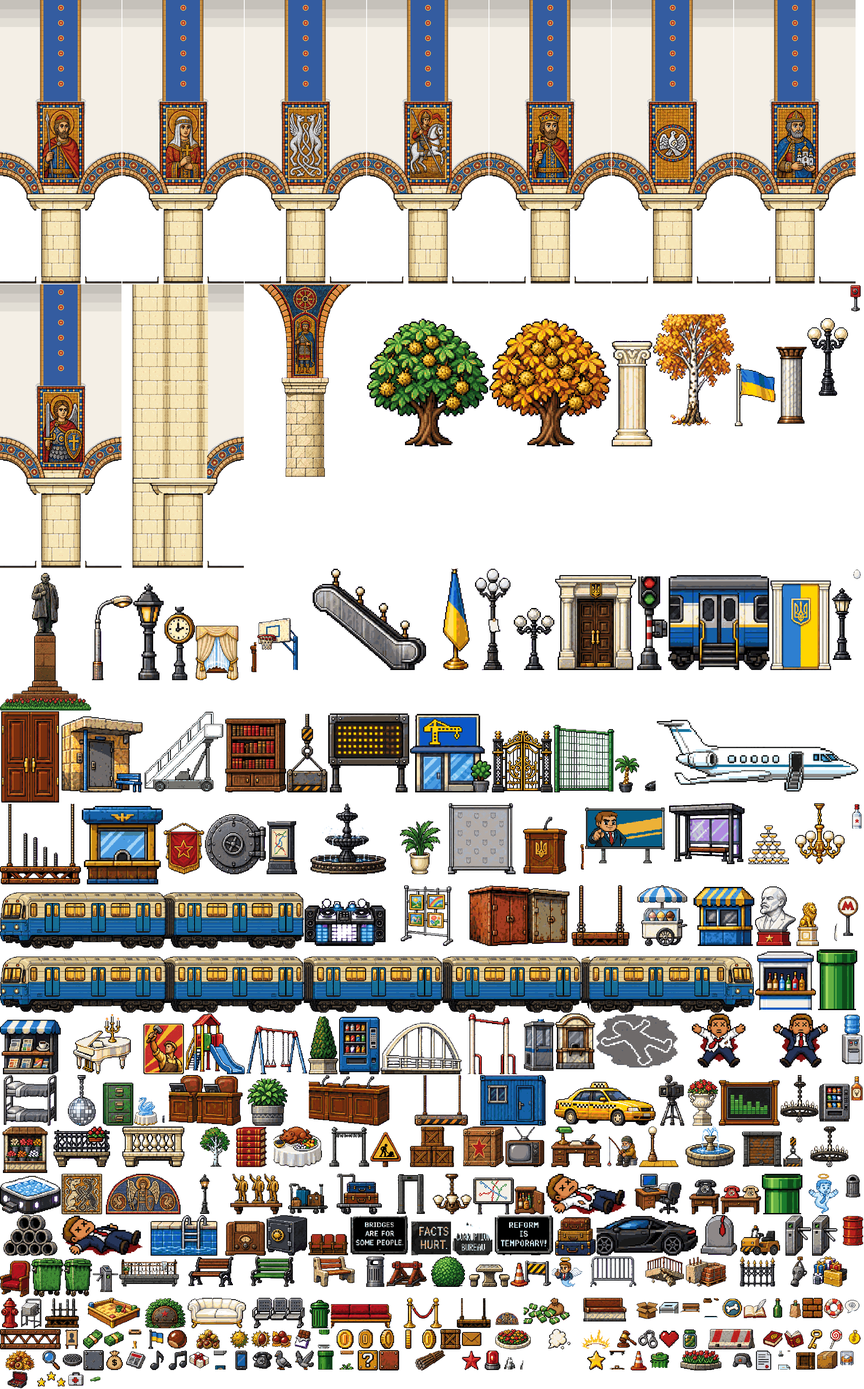
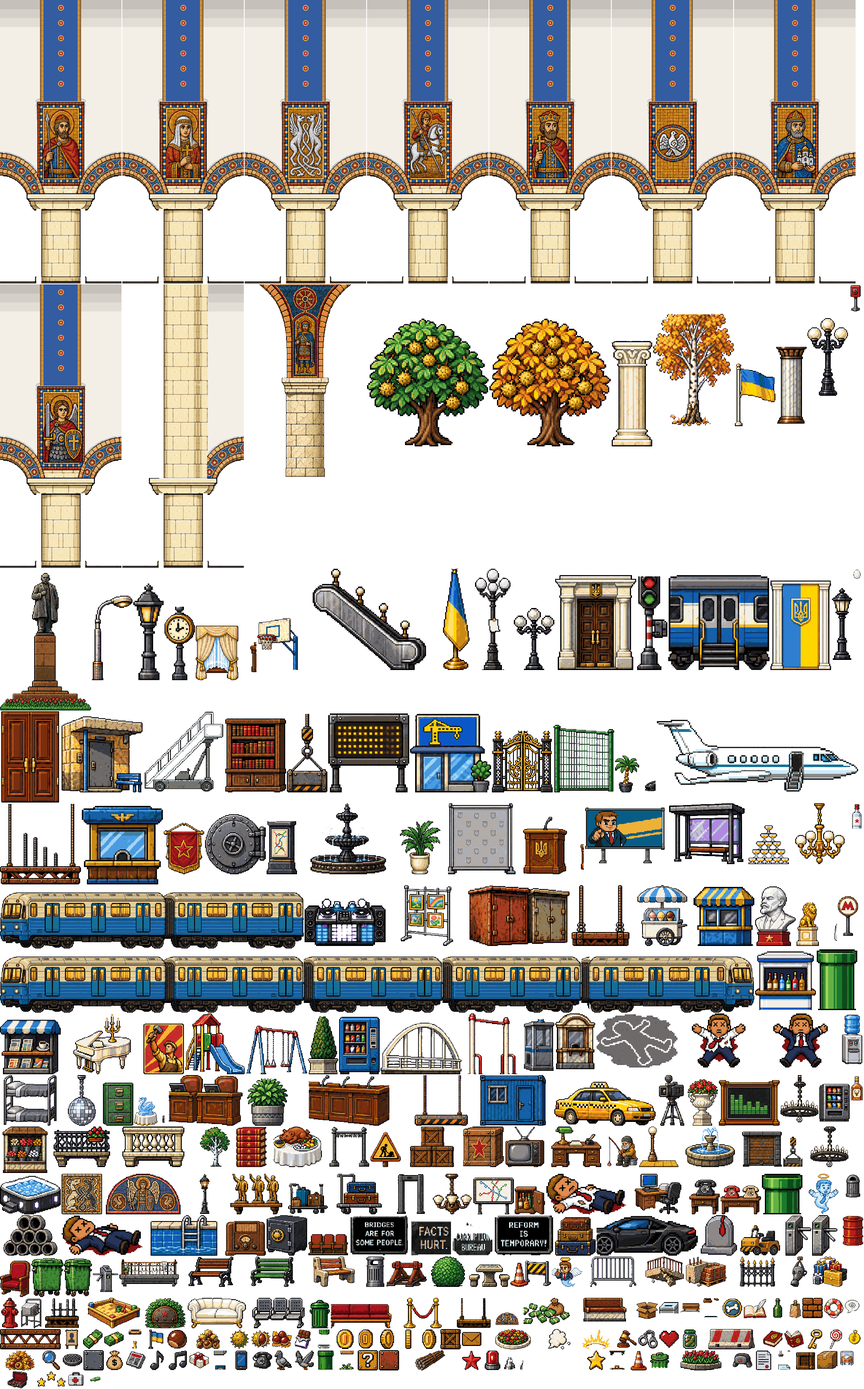
Metro end pier: slimmer, masonry rises from the shaft; the capital keeps its own overhang and bracket

Changed region(s): [[0.1562, 0.1859, 0.25, 0.4338]]

diff --git a/tools/make_metro_arcade.py b/tools/make_metro_arcade.py
@@ -33,7 +33,6 @@ BAY_W = 288            # 6 tiles
 FULL_H = 672           # floor (row 14) to the top of the level
 CHANDELIER_ROW_BOTTOM = 11 * 48   # the chandelier's bottom in world px (decor row 10)
 PANEL_SCALE = 1.0     # full-size mosaics, in one piece with their ornament frame
-END_WALL_X = 24       # the end wall of zv_bay_end starts here (px from the bay's left edge)
 SHAFT_SCALE = 0.8     # pillar shafts a little narrower than generated (the capitals keep their width)
 
 
@@ -193,13 +192,13 @@ def cut_course(b):
 
 
 def make_end(bay, pl, pr):
-    """The first pier of the hall: a stone end wall (the pillar's own masonry, floor to vault) with the
-    capital slab carried across it as a cornice; the right half-arch springs from it."""
+    """The first pier of the hall: the pillar rises as masonry above its capital up to the vault (no
+    mosaic, no left arch); the right half-arch springs from the capital."""
     b = bay.copy()
     h, w = b.shape[:2]
     c = w // 2
-    xw = END_WALL_X
     al = b[..., 3] > 0
+    xw = run_left(al, h - 40, c) + 1                        # the wall rises straight up from the shaft
     ls = [(y, run_left(al, y, c)) for y in range(h - 30, 0, -1)]
     ls = [(y, l) for y, l in ls if l > 0]
     # the slab: the longest run of rows with the same left edge above the shaft (the shaft is the first run)
@@ -239,7 +238,6 @@ def make_end(bay, pl, pr):
     for yy in range(yb - 22, yb):
         wall[yy, xw:pl + 2 + (yy - (yb - 22)) * 10 // 22] = True
     # below the slab: the see-through arch opening left of the shaft
-    wall[slab_bot + 1:, xw:c] |= ~al[slab_bot + 1:, xw:c]
 
     # the masonry: the pillar shaft's own stone courses, repeated across and upward
     sl = run_left(al, h - 40, c) + 1
@@ -257,17 +255,12 @@ def make_end(bay, pl, pr):
     sx = tx0 + (xs - xw) % tw
     b[ys, xs] = b[sy, sx]
     b[ys, xs, 3] = 255
-    # the slab runs across the wall as a cornice (its left end cap moves to the wall's edge)
-    for y in range(slab_top, slab_bot + 1):
-        seg = b[y, x0 + 6:x0 + 26].copy()
-        for x in range(xw + 3, x0 + 6):
-            b[y, x] = seg[(x - xw - 3) % len(seg)]
-        b[y, xw:xw + 3] = bay[y, x0:x0 + 3]
+    # the capital keeps its own left overhang and bracket; only above it the arch gives way to the pier
     # the wall's edge: an outline and a shaded return
-    b[:, xw, :3] = (40, 30, 26)
-    b[:, xw, 3] = 255
-    b[:, xw + 1:xw + 4, :3] = (b[:, xw + 1:xw + 4, :3] * 0.82).astype(np.uint8)
-    b[:, :xw] = 0
+    b[:slab_top, xw, :3] = (40, 30, 26)
+    b[:slab_top, xw, 3] = 255
+    b[:slab_top, xw + 1:xw + 4, :3] = (b[:slab_top, xw + 1:xw + 4, :3] * 0.82).astype(np.uint8)
+    b[:slab_top, :xw] = 0
     Image.fromarray(b, "RGBA").save(OUT / "zv_bay_end.png")
     print(f"zv_bay_end: wall from x {xw}, slab {slab_top}-{slab_bot}")
 
